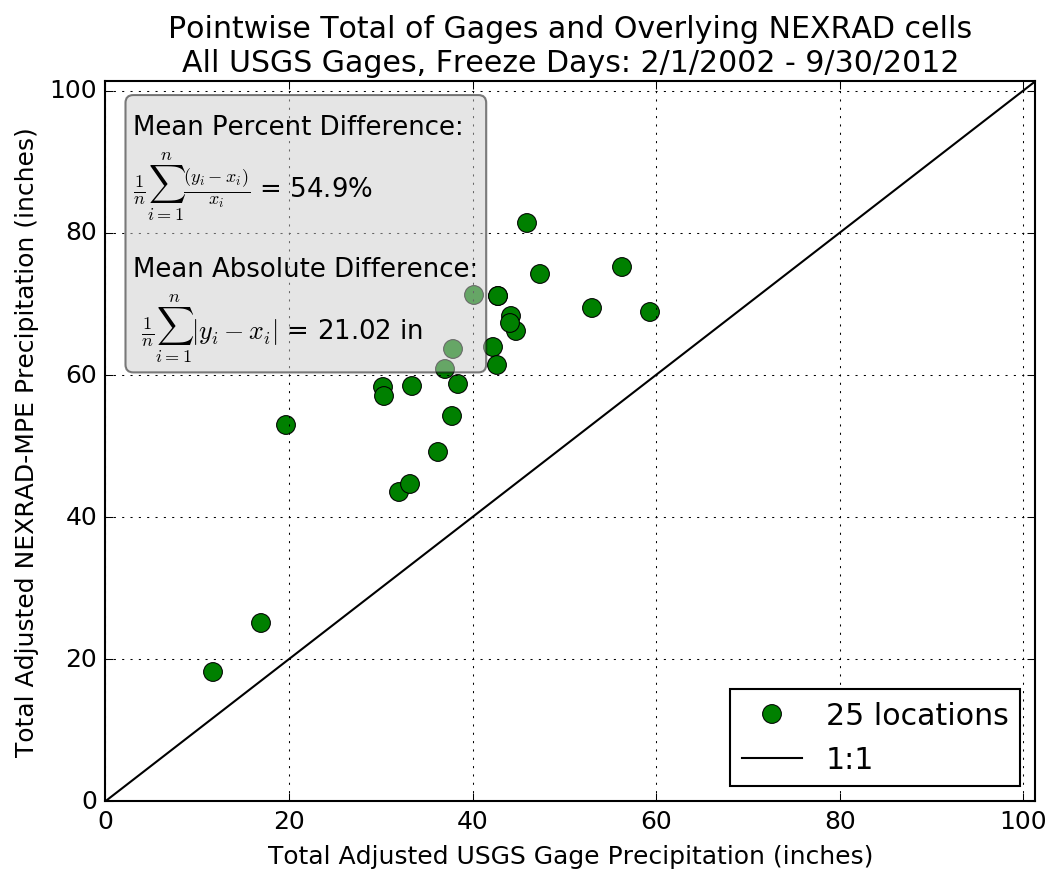
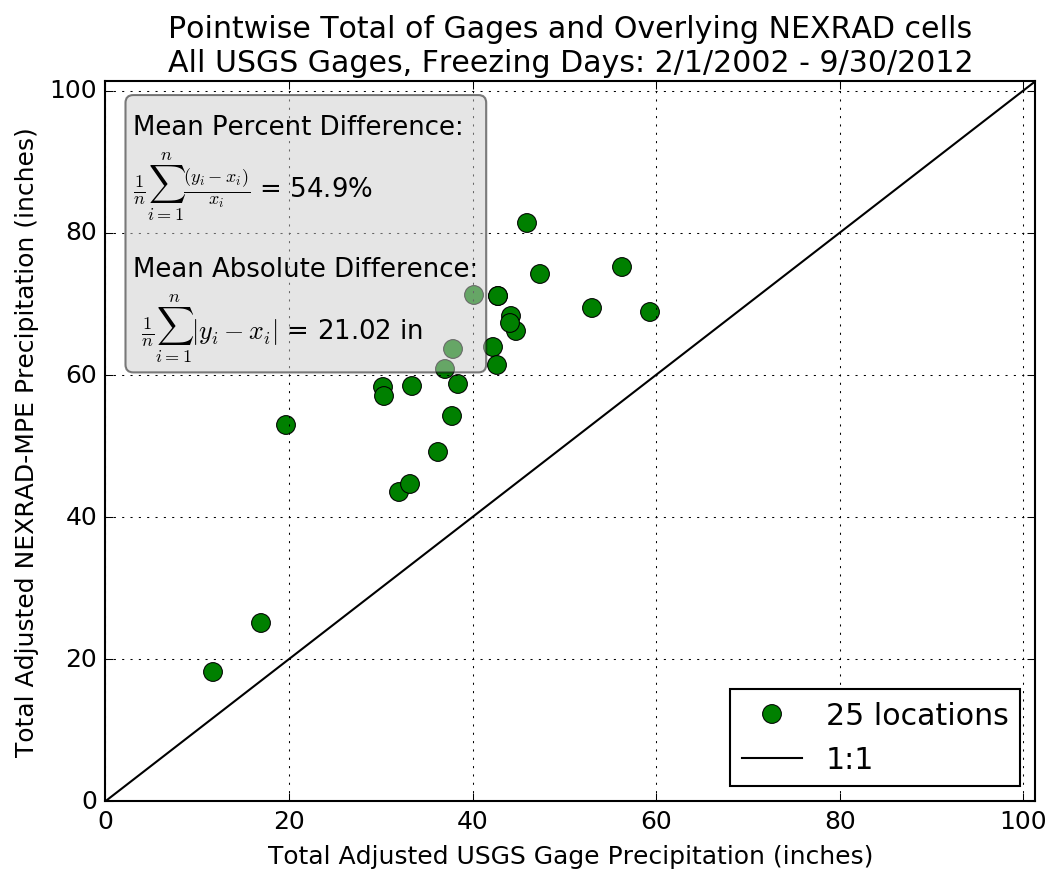
fix freezing days title in station corr plots; new fraction of hours precip by temp plot

Changed region(s): [[0.1554, 0.0306, 0.9322, 0.0917]]

diff --git a/parse_scripts/plot_parse_nexrad_hourly.py b/parse_scripts/plot_parse_nexrad_hourly.py
@@ -16,8 +16,8 @@ maindir = os.getcwd() + os.sep
 ######### User Input -> Options ############
 csv_out = 'no'
 mean_hist = 'yes'  # choice to creat plot 'yes' or 'no'
-type_plot = 'Mean Cell' # choices: 'Mean', 'Mean Intensity', 'Mean Cell', 'Total', 'Temperature Frequency', 'Hours Precip'
-type_plot2 = 'Temperature Frequency' # choices: 'Temperature Frequency', ''
+type_plot = 'Fraction Hours Precip' # choices: 'Mean', 'Mean Intensity', 'Mean Cell', 'Total', 'Temperature Frequency', 'Hours Precip', 'Fraction Hours Precip'
+type_plot2 = '' # choices: 'Temperature Frequency', ''
 
 ### calculate helpful summary statistics input ###
 # temp range
@@ -156,7 +156,7 @@ if mean_hist == 'yes':
         min_temp += temp_interval
 
     # create dictionary with categorized precip and temp data     
-    all_prec = {}; all_temp = {}
+    all_prec = {}; all_temp = {}; all_prec0 = {}
     for timestep in sorted(date_list):
         if len(date_list[timestep]) >= len(cor_nexcell):
             ############## analyze temperature data into bins
@@ -164,7 +164,7 @@ if mean_hist == 'yes':
             for key in categories:
                 if temp >= categories[key][0] and temp <= categories[key][1]:
                     key_in = key
-                    if key_in in all_prec:
+                    if key_in in all_temp:
                         all_temp[key_in].append(temp)
                     else:
                         all_temp[key_in] = [temp]
@@ -173,7 +173,17 @@ if mean_hist == 'yes':
             for every in date_list[timestep][1:]: # only look at the precip data -> starts at index 1
                 #mean_precip = numpy.mean(date_list[timestep][1:])
                 if every != 'na':
-                    if type_plot == 'Mean Intensity' or type_plot == 'Hours Precip':
+                    if type_plot == 'Fraction Hours Precip':
+                        if every >= 0.0: # need both 0 and > 0 hours for fraction of hours plot
+                            for key in categories:
+                                if temp >= categories[key][0] and temp <= categories[key][1]:
+                                    key_in = key
+                                    if key_in in all_prec0:
+                                        all_prec0[key_in].append(every)
+                                    else:
+                                        all_prec0[key_in] = [every]
+                                    break
+                    if type_plot == 'Mean Intensity' or type_plot == 'Hours Precip' or type_plot == 'Fraction Hours Precip':
                         if every > 0.0: # only examine precip values of 0.01 or greater
                             for key in categories:
                                 if temp >= categories[key][0] and temp <= categories[key][1]:
@@ -218,6 +228,10 @@ if mean_hist == 'yes':
                 ax1.bar(loc+(width/2.0), len(all_prec[cats]), width, color = 'green')
                 if loc< 1:
                     ax1.bar(loc+(width/2.0), len(all_prec[cats]), width, color = 'green', label = 'NEXRAD-MPE Spatial Average (50 cells)')
+            if type_plot == 'Fraction Hours Precip': # only precip hours
+                ax1.bar(loc+(width/2.0), len(all_prec[cats])/float(len(all_prec0[cats])), width, color = 'green')
+                if loc< 1:
+                    ax1.bar(loc+(width/2.0), len(all_prec[cats])/float(len(all_prec0[cats])), width, color = 'green', label = 'NEXRAD-MPE Spatial Average (50 cells)')
             if type_plot == 'Mean Cell':
                 ax1.bar(loc+(width/2.0), sum(all_prec[cats])/len(cor_nexcell), width, color = 'green')
                 if loc < 1: # only add 1 feature to legend
@@ -247,6 +261,9 @@ if mean_hist == 'yes':
     elif type_plot == 'Hours Precip':
         ax1.set_ylabel('Hours with Precipitation (50 NEXRAD-MPE cells)')
         ax1.set_title('Hours with Precipitation within Temperature Bins\n'  + 'During All Hours: ' + str(start.month) + '/' + str(start.day) + '/' + str(start.year) + ' - ' + str(finish.month) + '/' + str(finish.day) + '/' + str(finish.year))
+    elif type_plot == 'Fraction Hours Precip':
+        ax1.set_ylabel('Fraction of Hours with Precipitation\n(50 NEXRAD-MPE cells)',fontsize = 10)
+        ax1.set_title('Fraction of Hours with Precipitation by Temperature\n'  + str(start.month) + '/' + str(start.day) + '/' + str(start.year) + ' - ' + str(finish.month) + '/' + str(finish.day) + '/' + str(finish.year))
 
     
     if type_plot2 == 'Temperature Frequency':

diff --git a/plot_scripts/plot_gage_nexrad_correl.py b/plot_scripts/plot_gage_nexrad_correl.py
@@ -15,7 +15,7 @@ plt.ioff()
 os.chdir("..")
 maindir = os.getcwd() + os.sep
 
-criteria = 'Thaw' # choicea are 'Freeze' or 'Thaw' #see find_freeze_days.py for more info
+criteria = 'Freeze' # choicea are 'Freeze' or 'Thaw' #see find_freeze_days.py for more info
 gage_types = ['All','Heated','Non-Heated']
 point_labels = 'no' # choices: 'yes', 'no' #plot point number labels
 padj = 1.14 # 1.14 apply the precip adj factor to both nexrad and usgs gage data
@@ -25,7 +25,7 @@ else:
     scf = 1.0
 
 ################# create a list of days to use in the analysis ########################
-ystart = 2002 # begin data grouping
+ystart = 2007 # begin data grouping
 yend = 2012 # end data grouping
 start = datetime.datetime(ystart, 2, 1, 0, 0)
 finish = datetime.datetime(yend, 9, 30, 23, 0)
@@ -182,7 +182,7 @@ for gage_type in gage_types:
     if criteria == 'Thaw':
         text = 'Non-freezing Days'
     if criteria == 'Freeze':
-        text = 'Freeze Days'
+        text = 'Freezing Days'
     ax1.set_title('Pointwise Total of Gages and Overlying NEXRAD cells\n' + gage_type + ' USGS Gages, ' + text + ': ' + str(start.month)+'/'+str(start.day)+'/'+str(start.year) + ' - ' + str(finish.month)+'/'+str(finish.day)+'/'+str(finish.year))
     ax1.grid(True)
     ax1.legend(loc='lower right',numpoints = 1)
